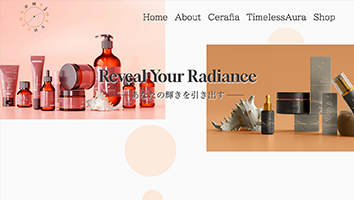
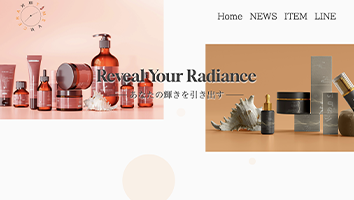
add works

diff --git a/html/index.html b/html/index.html
@@ -73,10 +73,11 @@ Design"/>
 Coding"/> 
         <div calss="text">
           <p class="textbefore">（02）Coding</p>
-        <p>Webサイト、バナー、Instagramデザインの制作ができます。
-商品やサイトイメージに合った配色にこだわり作品を作ってい
-ます。また、テイストが近いデザインを調べ、情報収取を行う
-            ことでよりよいデザインを作れるようにしています。</p>
+        <p>HTML・CSSを使用し、デザイン通りのコーディングをすることができます。
+          また、Javascriptうぃ使用し、サイトに動きを出すことで表現できる幅を広げることができます。
+          コードはほかの人が見てもわかるように意識し、コメントを加えたり、整列させたり等工夫をしています。
+          
+        </p>
             <p class="tools">Tools : VisualStudioCode/DreamWeaver</p>
           </div>
                 </div>
@@ -107,21 +108,25 @@ Coding"/>
             </a>
                </div>
              <div class="box">
-              
-            <img src="https://placehold.jp/300x200.png">
-            <P class="works-list">Website</P>
+              <a href="works4.html">
+            <img src="../img/works4.png" width="354" height="200">
+            <P class="works-list">icarch</P>
+            <p>【仮想】Webmagazine"OKAFU"</p>
+             </a>
                </div>
              <div class="box">
-            <img src="https://placehold.jp/300x200.png">
-            <P class="works-list">Website</P>
+              <img src="../img/works5.png" width="354" height="200">
+            <P class="works-list">icarch</P>
+            <p>【仮想】Webmagazine"OKAFU"</p>
               </div>
              <div class="box">
-            <img src="https://placehold.jp/300x200.png">
-            <P class="works-list">Website</P>
+              <img src="../img/works6.png" width="354" height="200">
+            <P class="works-list">banner</P>
+            <p>【仮想】ファッション"suumersale"</p>
               </div>
              <div class="box">
-            <img src="https://placehold.jp/300x200.png">
-            <P class="works-list">Website</P>
+              <img src="../img/works7.png" width="354" height="200">
+            <P class="works-list">banner</P>
                </div>
              <div class="box">
             <img src="https://placehold.jp/300x200.png">
@@ -137,7 +142,7 @@ Coding"/>
          </main>
         <footer>
           <div class="logo">
-            <a href="index.html"><img src="../img/header_logo.png" width="152" height="48" alt="logo"/></a> 
+            <a href="index.html"><img src="../img/logo.svg" width="152" height="48" alt="logo"/></a> 
           </div>
             </div>
           <div class="box-area">

diff --git a/css/style.css b/css/style.css
@@ -35,20 +35,12 @@ a:hover{
 ul{
     list-style-type: none;
 }
-.text-small{
-    font-size: 2.4rem;
-  margin-left: 2rem;
-}
+
 header img{
   width: 120px;
   margin-left: 50px;
 }
-header nav{
-  margin-right: 50px;
-}
-header nav ul{
-  display: flex;
-}
+
 header{
   display: flex;
   justify-content: space-between;
@@ -59,6 +51,14 @@ header{
     z-index: 1;
     transition: 1s;
     background-color: rgba(255,246,236,0.5);
+}
+
+/* ナビゲーション */
+header nav{
+  margin-right: 50px;
+}
+header nav ul{
+  display: flex;
 }
 header nav a{
     display: block;
@@ -89,14 +89,7 @@ header nav a:hover{
   text-decoration: none;
 }  
 
-h2{
-  text-align: center;
-  font-size: 9rem;
-  margin-bottom: 2rem;
-  font-family: "Nanum Myeongjo", serif;
-  font-weight: 800;
-  font-style: normal;
-}
+
 main{
   padding-top: 80px;
 }
@@ -115,8 +108,21 @@ main{
     left: 50%;
    padding-right: 30px;
 }
+
 section{
   padding: 0 15px;
+}
+h2{
+  text-align: center;
+  font-size: 9rem;
+  margin-bottom: 2rem;
+  font-family: "Nanum Myeongjo", serif;
+  font-weight: 800;
+  font-style: normal;
+}
+.text-small{
+  font-size: 2.4rem;
+margin-left: 2rem;
 }
 .sec1{
    max-width: 1120px;
@@ -266,8 +272,10 @@ footer .box img{
   margin-right: 0.5rem;
 }
 footer .logo{
-  text-align: center;
-  margin-bottom: 1.5rem;
+    max-width: 100px;
+  margin: 0 auto 1.5rem auto;
+  padding: 3px 5px;
+  background-color: #fff6ec;
 }
 footer a{
    color: #fff6ec;

diff --git a/html/works4.html b/html/works4.html
@@ -30,23 +30,20 @@
         <h2>Overview<span class="text-small">概要</span></h2>
         <div class="box">
         <p class="independent">個人制作</p>
-      <h3>パジャマ専門店"DreamEase"</h3>
+      <h3>ファッションブランド"OKAFU"</h3>
     </div>
       <div class="box-area">
         <img src="../img/works-pajyama.png" width="600" height="450" alt=""/>
         <div class="text">
         <dl>
           <dt>Type</dt>
-          <dd>Website<br>
-          UEL：</dd>
+          <dd>icarch</dd>
           <dt>About</dt>
-          <dd>パジャマ専門店"DreamEase"サイト制作（仮想）</dd>
+          <dd>”ファッションブランド"OKAFU"が運営する「Webmagazine」のGoogle広告用のアイキャッチ（仮想）</dd>
           <dt>Schedule</dt>
-          <dd>企画・ワイヤーフレーム：1日<br>
-              デザイン：3日<br>
-              コーディング：5日</dd>
+          <dd>制作時間：1時間</dd>
           <dt>Tools</dt>
-          <dd>XD/Photoshop/Dreamweaver</dd>
+          <dd>Photoshop</dd>
         </dl>
       </div>
     </div>

diff --git a/html/works1.html b/html/works1.html
@@ -33,12 +33,12 @@
       <h3>化粧品メーカー"TimeCera"</h3>
     </div>
       <div class="box-area">
-        <img src="../img/works-cosmetics.png" width="600" height="450" alt=""/>
+        <img src="../img/works-cosmetics.jpg" width="600" height="450" alt=""/>
         <div class="text">
         <dl>
           <dt>Type</dt>
           <dd>Website<br>
-          URL：</dd>
+          URL：<a href="https://fukaokazaki0416.github.io/timecera/html" target="_blank" rel=”noopener noreferrer”>https://fukaokazaki0416.github.io/timecera/</a></dd>
           <dt>About</dt>
           <dd>化粧品メーカー"TimeCera"サイト制作（仮想）</dd>
           <dt>Schedule</dt>
@@ -66,7 +66,7 @@
         </main>
     
         <footer>
-          <div class="logo"> <a href="index.html"><img src="../img/header_logo.png" width="152" height="48" alt=""/></a> 
+          <div class="logo"> <a href="index.html"><img src="../img/logo.svg" width="" height="" alt=""/></a> 
           </div>
           <div class="box-area">
         <ul>

diff --git a/html/about.html b/html/about.html
@@ -122,7 +122,7 @@
         </main>
     
         <footer>
-          <div class="logo"> <a href="index.html"><img src="../img/header_logo.png" width="152" height="48" alt=""/></a> 
+          <div class="logo"> <a href="index.html"><img src="../img/logo.svg" width="152" height="48" alt=""/></a> 
           </div>
           <div class="box-area">
         <ul>

diff --git a/html/works3.html b/html/works3.html
@@ -76,7 +76,7 @@
         </main>
     
         <footer>
-          <div class="logo"> <a href="index.html"><img src="../img/header_logo.png" width="152" height="48" alt=""/></a> 
+          <div class="logo"> <a href="index.html"><img src="../img/logo.svg" width="152" height="48" alt=""/></a> 
           </div>
           <div class="box-area">
         <ul>
